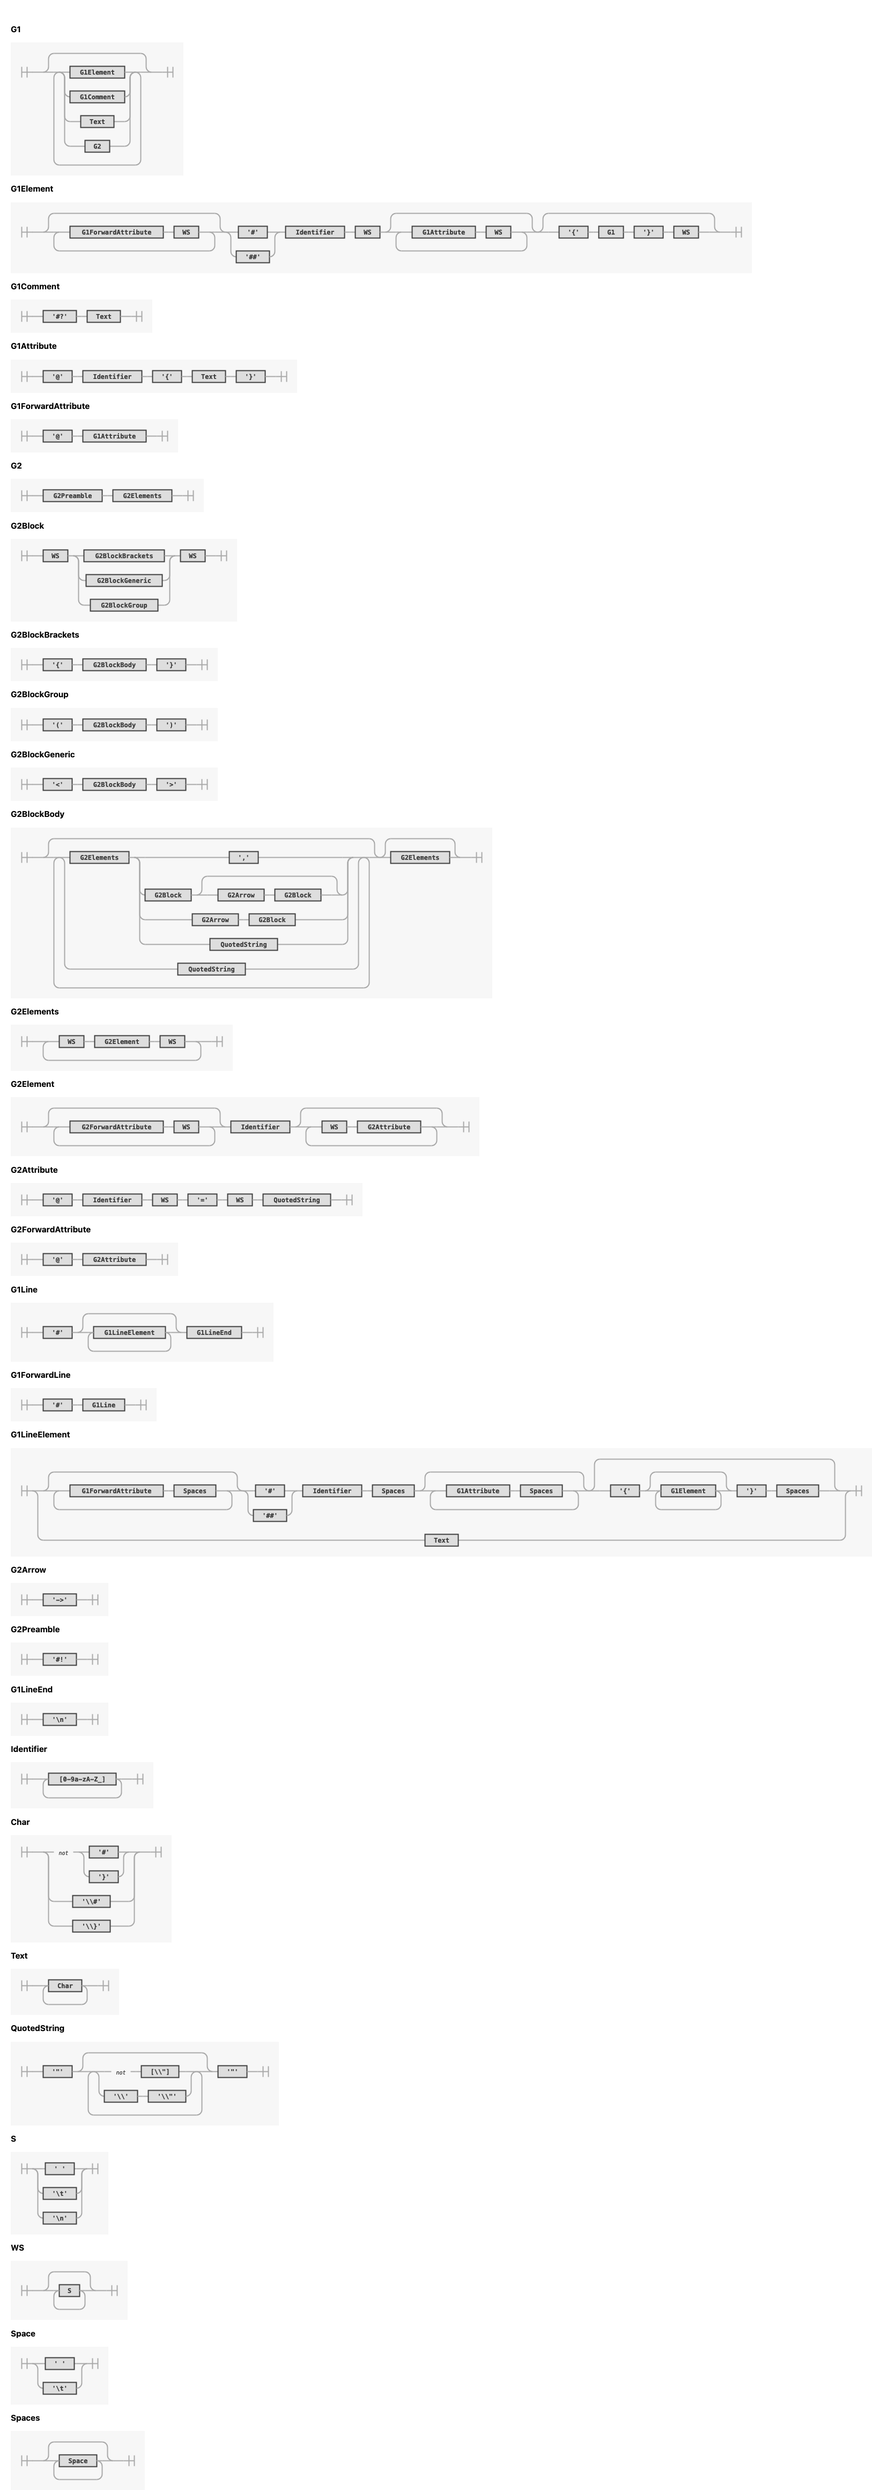
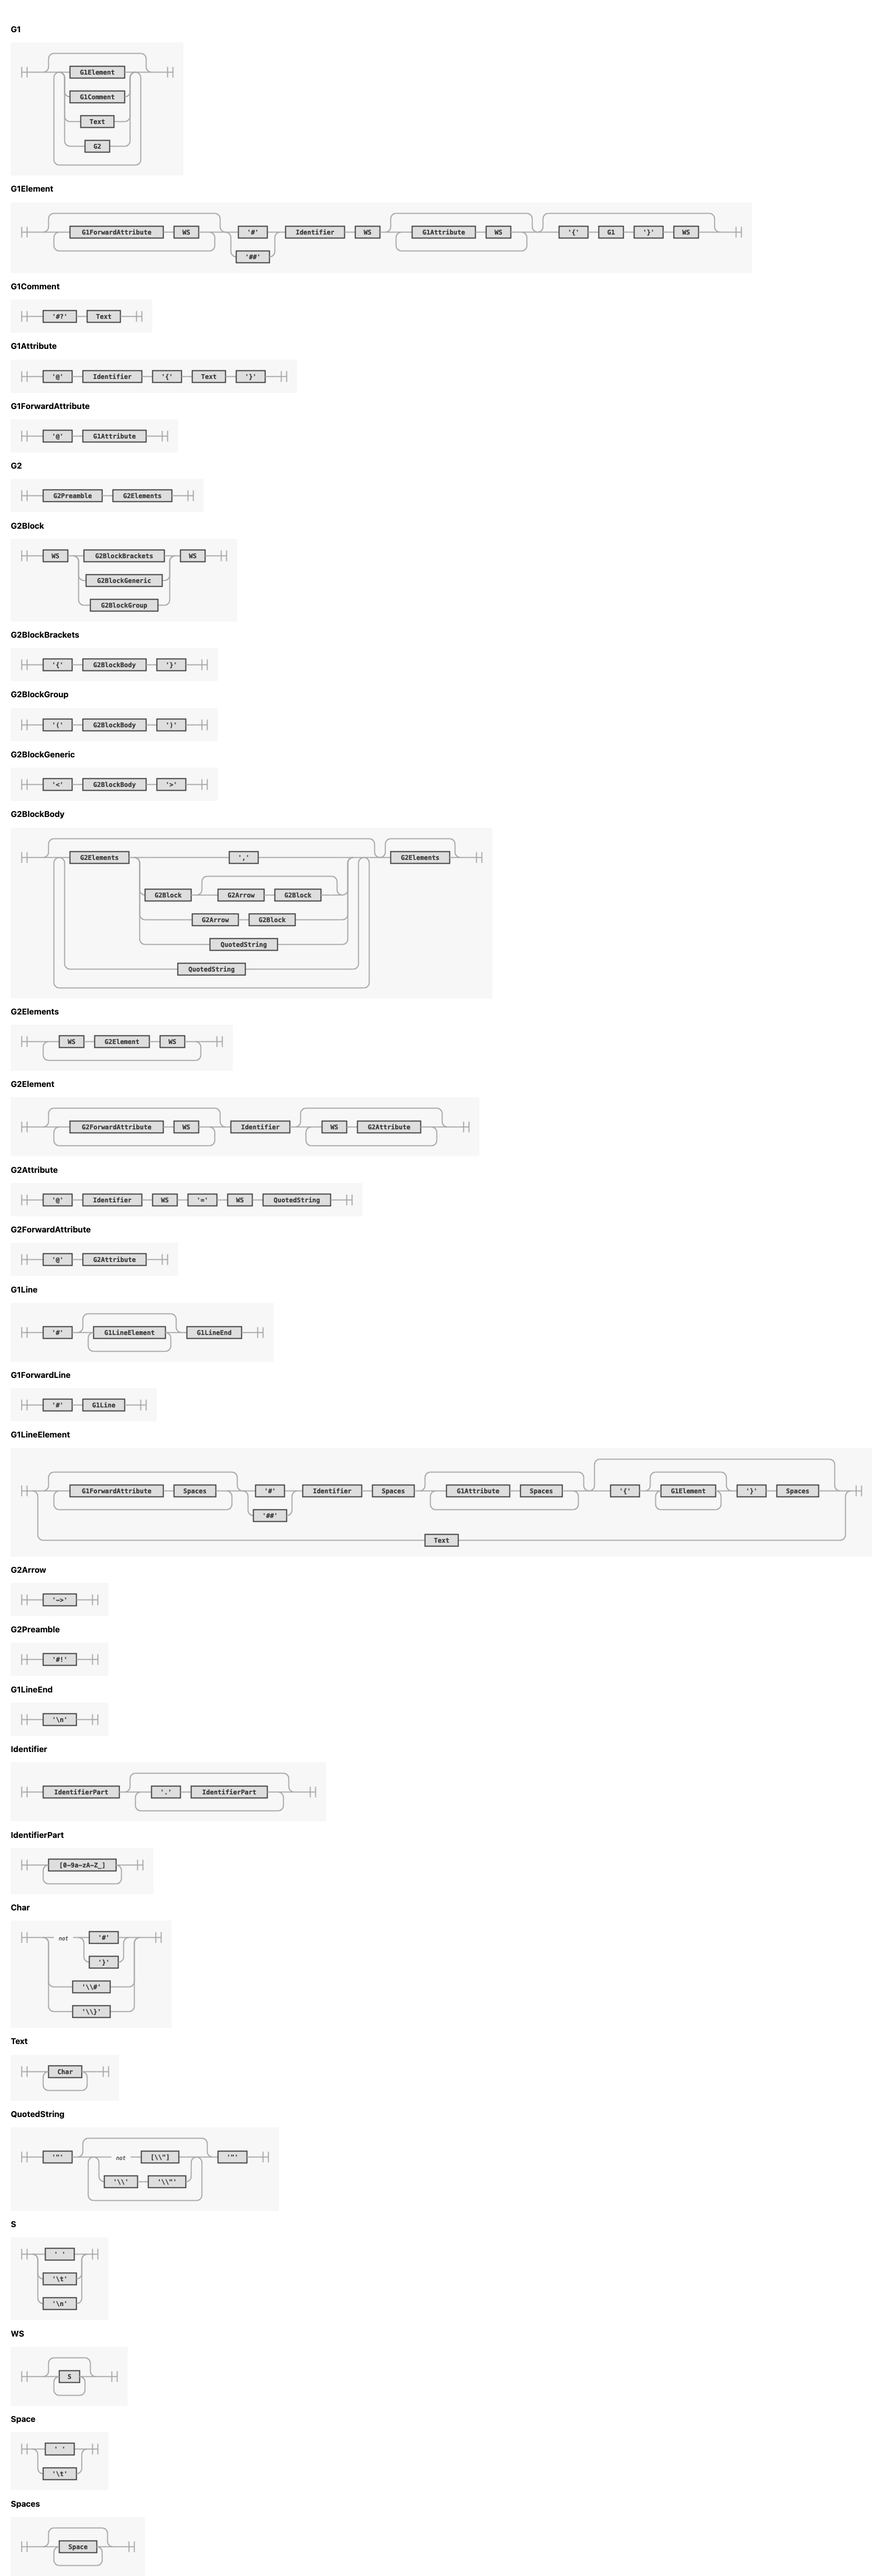
Allowed dot separated identifiers

diff --git a/token/gcommon.go b/token/gcommon.go
@@ -74,9 +74,13 @@ func (l *Lexer) gSkipWhitespace(dontSkip ...rune) error {
 	}
 }
 
-// gIdent parses a text sequence until next control char # or } or EOF or whitespace.
+// gIdent parses an identifier, which is a dot separated sequence of [a-zA-Z0-9_].
 func (l *Lexer) gIdent() (*Identifier, error) {
 	startPos := l.Pos()
+
+	// When this is true we have to get and identChar, anything is an error.
+	// This is true at the start and after a '.'.
+	requireChar := true
 
 	var tmp bytes.Buffer
 
@@ -94,9 +98,20 @@ func (l *Lexer) gIdent() (*Identifier, error) {
 			return nil, err
 		}
 
-		if !l.gIdentChar(r) {
-			l.prevR() // reset last read char
-
+		if requireChar {
+			requireChar = false
+			// Require a character
+			if !l.gIdentChar(r) {
+				return nil, NewPosError(l.node(), "expected identifier")
+			}
+		} else if r == '.' {
+			// After a dot we require another identifier.
+			requireChar = true
+		} else if l.gIdentChar(r) {
+			// Okay, will be added to the buffer later
+		} else {
+			// We reached the end of this identifier, reset the rune and stop
+			l.prevR()
 			break
 		}
 
@@ -115,7 +130,7 @@ func (l *Lexer) gIdent() (*Identifier, error) {
 	return ident, nil
 }
 
-// gIdentChar is [a-zA-Z0-9_]
+// gIdentChar is any character of an identifier: [a-zA-Z0-9_]
 func (l *Lexer) gIdentChar(r rune) bool {
 	return (r >= 'a' && r <= 'z') || (r >= 'A' && r <= 'Z') || (r >= '0' && r <= '9') || (r == '_')
 }

diff --git a/token/lexer_test.go b/token/lexer_test.go
@@ -209,16 +209,6 @@ func TestLexer(t *testing.T) {
 		},
 
 		{
-			name: "simple g2",
-			text: "#!{hello}",
-			want: NewTestSet().
-				G2Preamble().
-				BlockStart().
-				Identifier("hello").
-				BlockEnd(),
-		},
-
-		{
 			name: "named g2",
 			text: "#! item {}",
 			want: NewTestSet().
@@ -476,6 +466,37 @@ func TestLexer(t *testing.T) {
 				BlockEnd().
 				DefineElement(false).
 				Identifier("c"),
+		},
+
+		{
+			name: "good identifiers",
+			text: `#!id{
+						abc,
+						_abc,
+						a0,
+						a.b.c,
+						x1.y2.z3,
+						123,
+						1.2.3.4,
+					}`,
+			want: NewTestSet().
+				G2Preamble().
+				Identifier("id").
+				BlockStart().
+				Identifier("abc").Comma().
+				Identifier("_abc").Comma().
+				Identifier("a0").Comma().
+				Identifier("a.b.c").Comma().
+				Identifier("x1.y2.z3").Comma().
+				Identifier("123").Comma().
+				Identifier("1.2.3.4").Comma().
+				BlockEnd(),
+		},
+
+		{
+			name:    "bad identifier double dots",
+			text:    "#abc..def",
+			wantErr: true,
 		},
 	}
 
